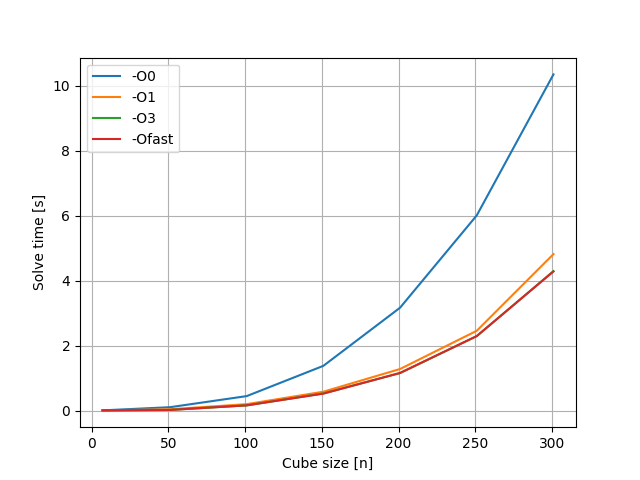
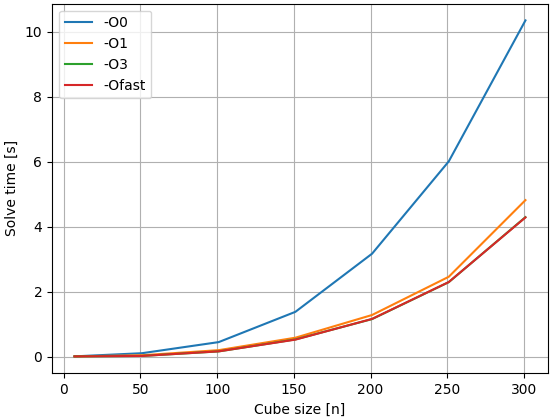
Updated Plotting

diff --git a/report/chache_misses.py b/report/chache_misses.py
@@ -1,7 +1,7 @@
 from matplotlib import pyplot as plt
 import numpy as np
 
-labels = ["K,J,I","K,I,J",'I,J,jK']
+labels = ["K,J,I","K,I,J",'I,J,K']
 time = [0.10170, 0.21761, 0.32129]
 
 d1_refs = [7915785, 13472335, 14153652]
@@ -13,15 +13,16 @@ ll_refs = [990059, 2190261, 4679556]
 ll_cache_misses = [75021, 74999, 74998]
 ll_cache_misses_percent = [0.3, 0.2, 0.2]
 
+per = [12.5,16.2,33.2,0.2,0.3,0.2]
 x = np.arange(len(labels))
-width = 0.3 
+width = 0.45
 
 fig, ax = plt.subplots()
 
 rects1 = ax.bar(x - 3*width/4, d1_refs, width/2, label='D1 cache references')
-rects2 = ax.bar(x - width/4, d1_cache_misses, width/2, label='D1 cache misses')
-rects3 = ax.bar(x + width/4, d1_refs, width/2, label='LL cache references')
-rects4 = ax.bar(x + 3*width/4, d1_cache_misses, width/2, label='LL cache misses')
+rects2 = ax.bar(x - width/4, d1_cache_misses, width/2, label='D1 cache misses (%)')
+rects3 = ax.bar(x + width/4, ll_refs, width/2, label='LL cache references')
+rects4 = ax.bar(x + 3*width/4, ll_cache_misses, width/2, label='LL cache misses (%)')
 
 
 
@@ -35,13 +36,35 @@ ax.legend()
 # ax.bar_label(rects3, padding=3)
 # ax.bar_label(rects4, padding=3)
 
-for bar in ax.patches:
+iter_array = [0,1,2,6,7,8]
+for i in iter_array:
+    bar = ax.patches[i]
     value = bar.get_height()
     text = f'{value}'
     text_x = bar.get_x() + bar.get_width() / 2
     text_y = bar.get_y() + value
     ax.text(text_x, text_y+100000, text, ha='center',size=9)
 
+iter_array_1 = [3,4,5,9,10,11]
+j = 0
+for i in iter_array_1:
+    bar = ax.patches[i]
+    value = bar.get_height()
+    perc = per[j]
+    text = f'({perc}%)\n {value}'
+    text_x = bar.get_x() + bar.get_width() / 2
+    text_y = bar.get_y() + value
+    ax.text(text_x, text_y+100000, text, ha='center',size=9)
+    j+=1
+
+# for bar in ax.patches:
+#     if (i == 5):
+#         value = bar.get_height()
+#         text = f'{value}'
+#         text_x = bar.get_x() + bar.get_width() / 2
+#         text_y = bar.get_y() + value
+#         ax.text(text_x, text_y+100000, text, ha='center',size=9)
+#     i+=1
 fig.tight_layout()
 
 plt.show()

diff --git a/report/compiler_optimisation.py b/report/compiler_optimisation.py
@@ -4,13 +4,13 @@ from matplotlib import pyplot as plt
 
 
 cube_size = [7, 51, 101, 151, 201, 251, 301]#, 401, 501]
-O_zero  = [0.00946,0.10709,0.44868,1.38037,3.17062,6.01178,10.35129]#,24.42437,47.46733]
-O_one   = [0.00953,0.04386,0.20040,0.58402,1.28309,2.45980,4.81897]#,11.91114,23.23211]
-O_two   = [0.00889,0.04199,0.20223,0.58328,1.28859,2.46629,4.44303]#,11.94420,23.25869]
-O_three = [0.00870,0.02268,0.16198,0.53158,1.15723,2.29396,4.29559]#,12.53149,24.02194]
-O_fast  = [0.00845,0.02256,0.16421,0.52456,1.16242,2.29763,4.28558]#,12.72092,24.42916]
-O_s     = [0.00866,0.03437,0.19800,0.56940,1.26963,2.45285,4.45872]#,11.97594,23.21310]
-O_g     = [0.00834,0.04276,0.19930,0.67470,1.27856,2.44025,4.45774]#,12.01298,23.33818]
+O_zero  = [0.00946,0.10709,0.44868,1.38037,3.17062,6.01178,10.35129]
+O_one   = [0.00953,0.04386,0.20040,0.58402,1.28309,2.45980,4.81897]
+O_two   = [0.00889,0.04199,0.20223,0.58328,1.28859,2.46629,4.44303]
+O_three = [0.00870,0.02268,0.16198,0.53158,1.15723,2.29396,4.29559]
+O_fast  = [0.00845,0.02256,0.16421,0.52456,1.16242,2.29763,4.28558]
+O_s     = [0.00866,0.03437,0.19800,0.56940,1.26963,2.45285,4.45872]
+O_g     = [0.00834,0.04276,0.19930,0.67470,1.27856,2.44025,4.45774]
 
 plt.plot(cube_size, O_zero, label="-O0")
 plt.plot(cube_size, O_one, label="-O1")
@@ -19,8 +19,10 @@ plt.plot(cube_size, O_three, label="-O3")
 plt.plot(cube_size, O_fast, label="-Ofast")
 # plt.plot(cube_size, O_s, label="-Os")
 # plt.plot(cube_size, O_g, label="-Og")
-plt.xlabel('Cube size [n]')
-plt.ylabel('Solve time [s]')
-plt.legend()
+plt.xlabel('Cube size [n]',fontsize=14)
+plt.xticks(fontsize=14)
+plt.ylabel('Solve time [s]',fontsize=14)
+plt.yticks(fontsize=14)
+plt.legend(fontsize=14)
 plt.grid(True)
 plt.show()
